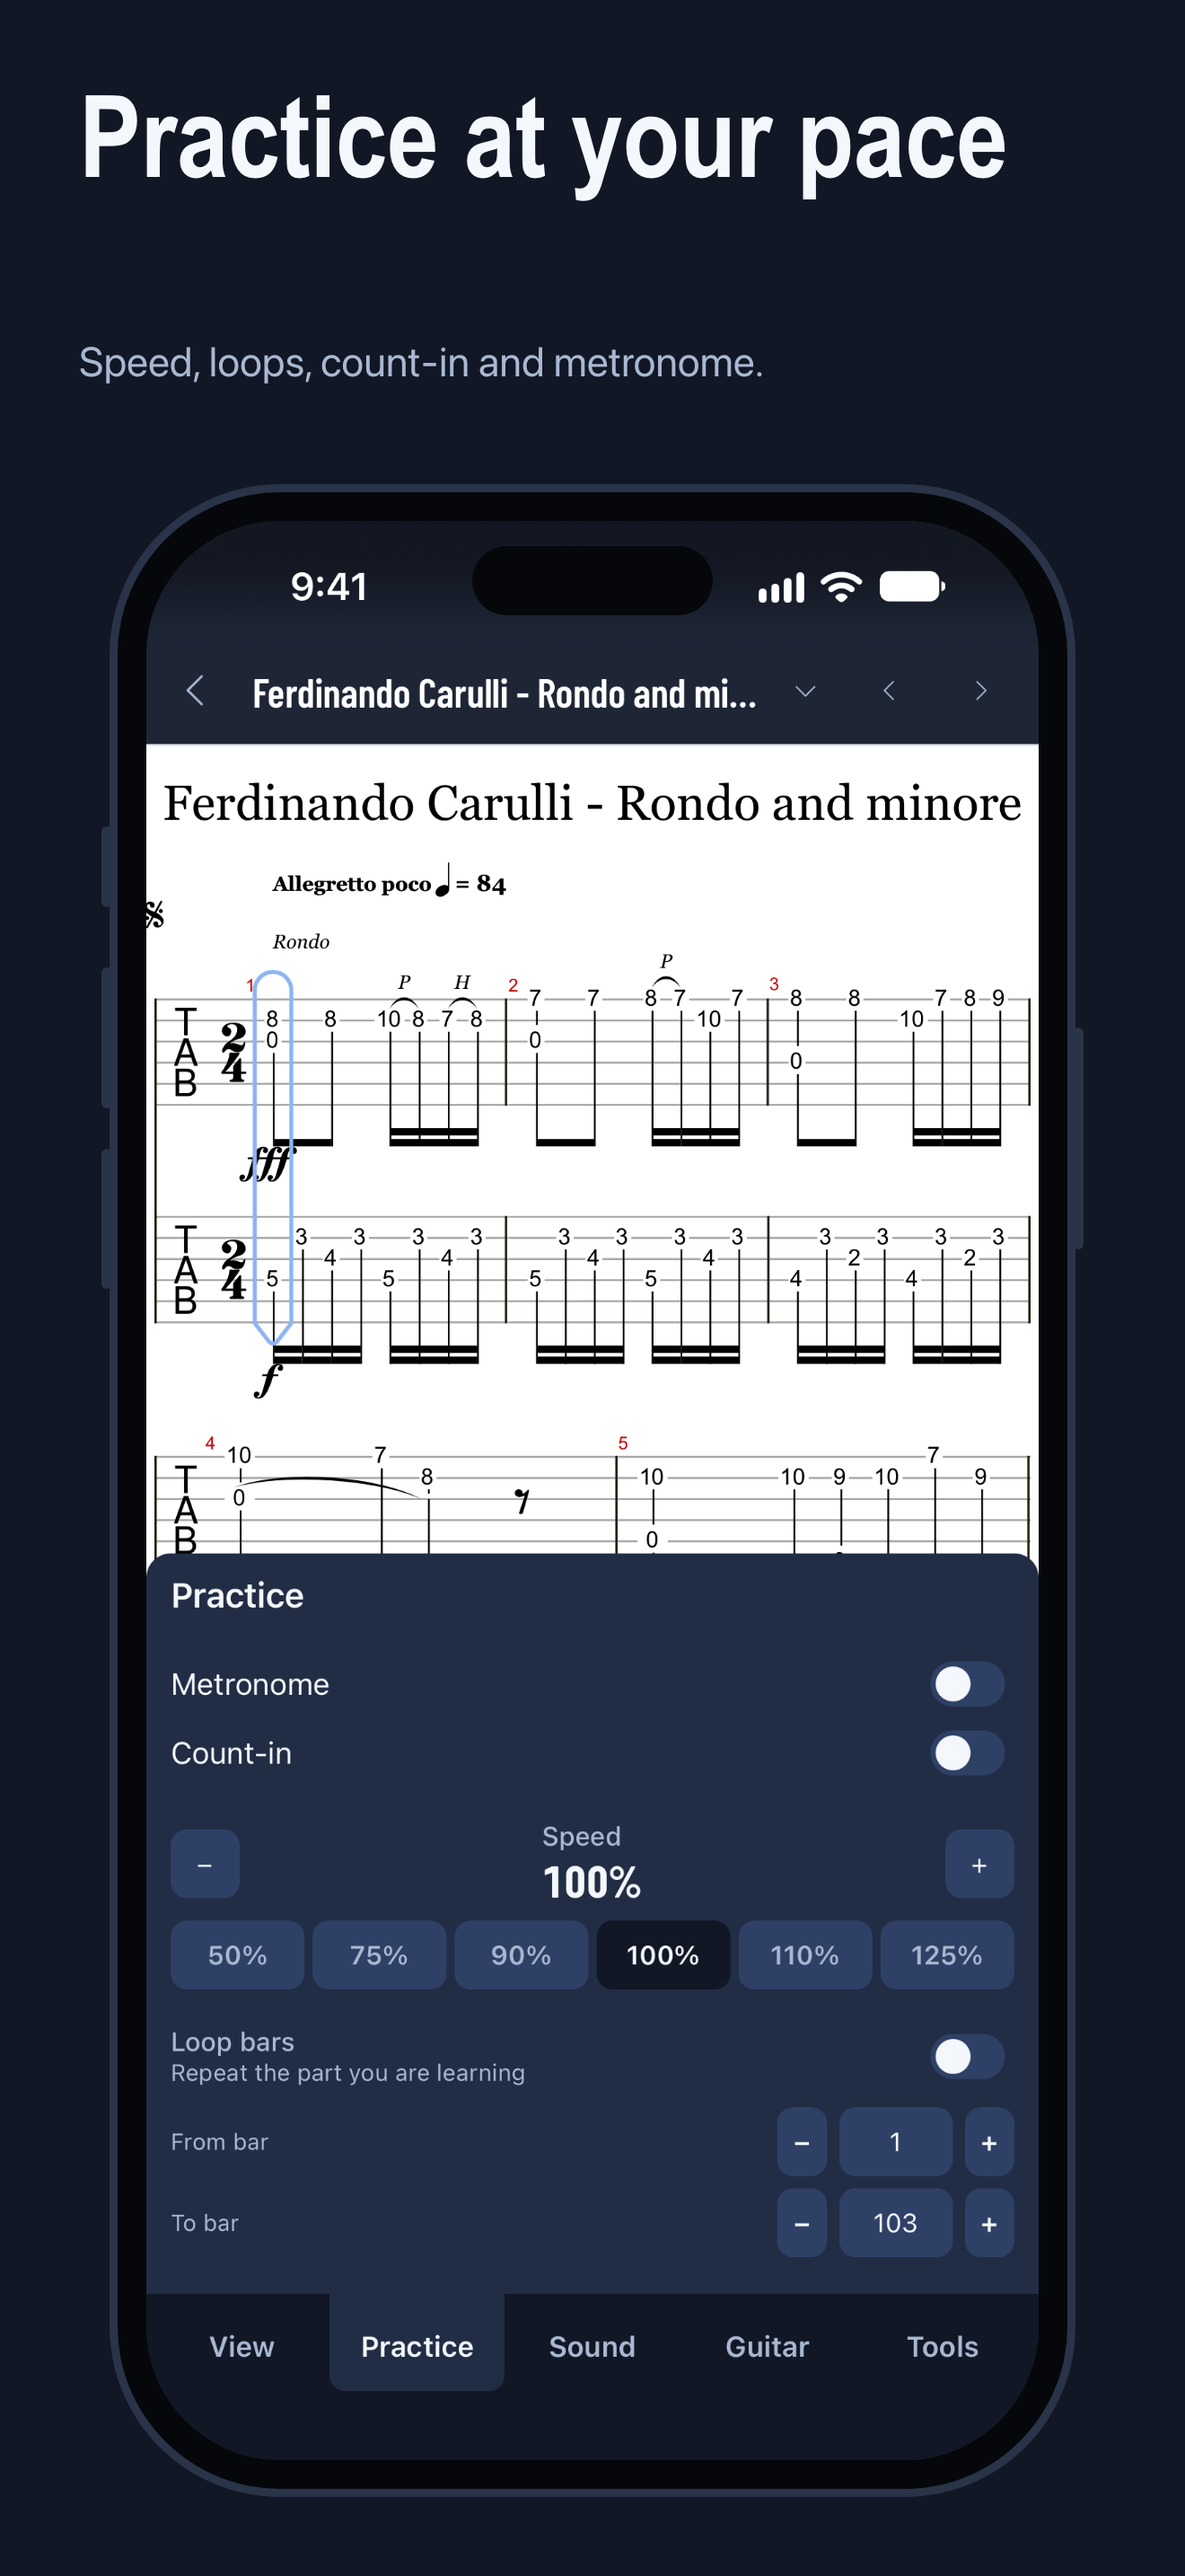
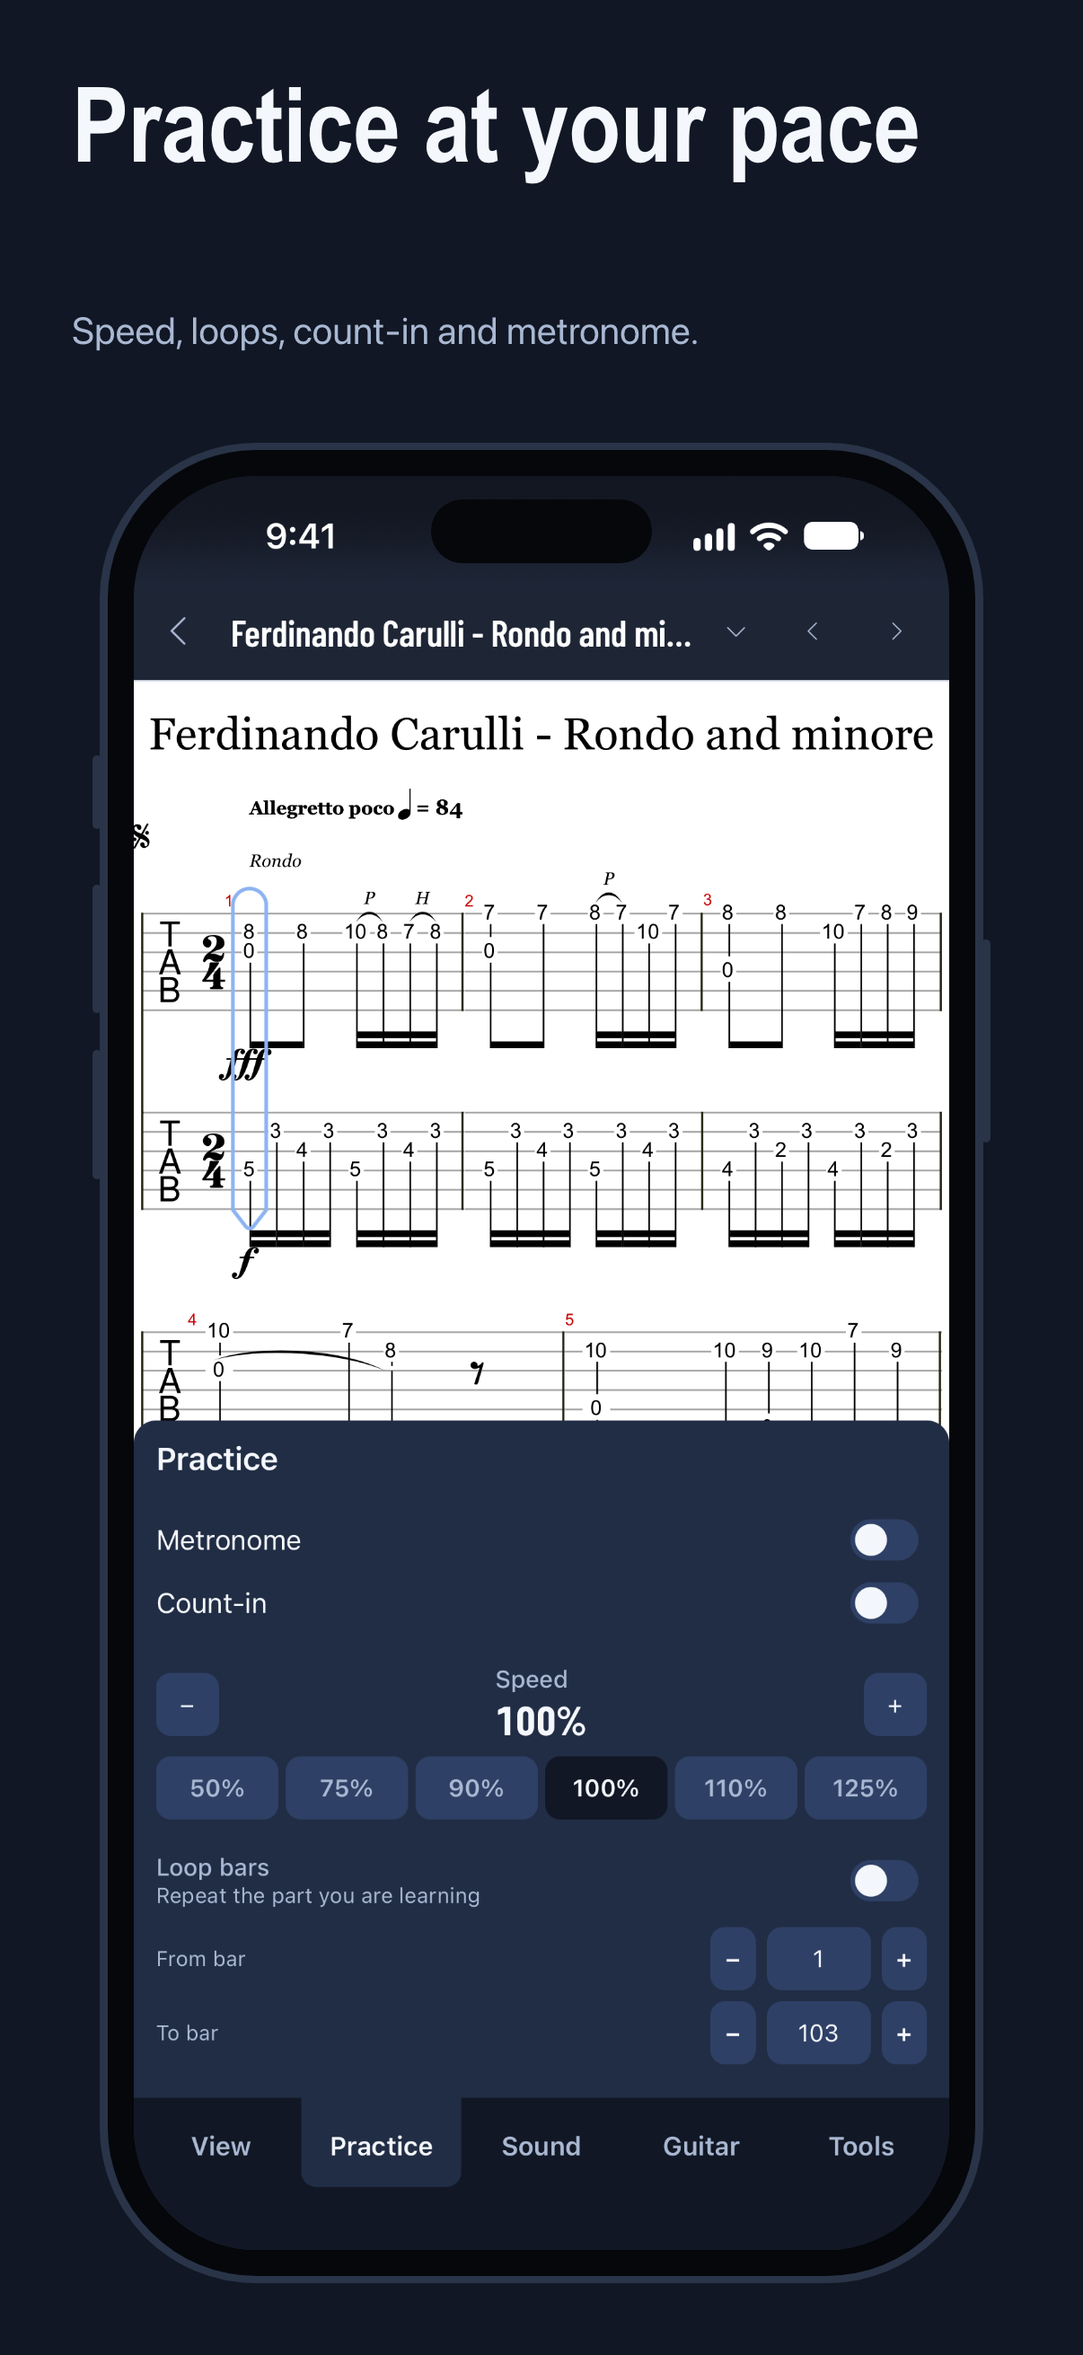
ci(appstore): sign iOS with the distribution certificate and an App Store profile

diff --git a/build/tauri/plugins/apple-nav/ios/Sources/AppleNavPlugin.swift b/build/tauri/plugins/apple-nav/ios/Sources/AppleNavPlugin.swift
@@ -363,12 +363,22 @@ class AppleNavPlugin: Plugin, UITabBarDelegate, UISearchBarDelegate {
 
     // The system's choice of bar edge: 0 none (horizontal bar), 1 leading, 2 trailing. iOS 27.1 and later.
     private func systemVerticalEdge(_ window: UIWindow) -> Int {
+        let traits = window.traitCollection
+        if traits.responds(to: NSSelectorFromString("verticalBarEdge")),
+           let raw = traits.value(forKey: "verticalBarEdge") as? Int,
+           raw == 1 || raw == 2 {
+            return raw
+        }
         if #available(iOS 27.1, *) {
-            switch window.traitCollection.verticalBarEdge {
+            switch traits.verticalBarEdge {
             case .leading: return 1
             case .trailing: return 2
-            default: return 0
+            default: break
             }
+        }
+        // The Duo's outer display (external screen, 466x678pt) always has its vertical rail on the right
+        if (window.bounds.width == 466 && window.bounds.height == 678) || window.safeAreaInsets.right >= 70 {
+            return 2
         }
         return 0
     }
@@ -376,10 +386,11 @@ class AppleNavPlugin: Plugin, UITabBarDelegate, UISearchBarDelegate {
     // Picks the bar for the current pose and places everything; cheap to call often
     func relayout() {
         guard let bar = bar, let window = bar.superview as? UIWindow else { return }
-        // The side rail only where the system wants one AND the window is landscape; in portrait (the Duo's inner or outer
-        // display held upright) the horizontal bar is used, as on any iPhone
+        // The side rail where the system wants one: on the Duo's outer display (external screen), and in landscape
+        // on the inner display. In portrait on the inner display (the Duo held upright as a tablet), the horizontal bar is used.
         let landscape = window.bounds.width > window.bounds.height
-        let edge = landscape ? systemVerticalEdge(window) : 0
+        let isExternal = window.bounds.width <= 500
+        let edge = (landscape || isExternal) ? systemVerticalEdge(window) : 0
         let vertical = edge != 0
         if edge != verticalEdge {
             verticalEdge = edge

diff --git a/src/design.css b/src/design.css
@@ -5162,15 +5162,20 @@ body.phone-reader #screenRow { display: none !important; }
 body.native-tabbar .library-bottom-nav,
 body.native-rail .library-bottom-nav { display: none !important; }
 /* Wider than a phone (the iPhone Duo's strip layouts): the native rail replaces the web rail, so the page keeps no room for it */
-body.native-tabbar:not(.native-rail) { --rail-w: 0px; }
+body.native-tabbar,
+body.native-rail { --rail-w: 0px; }
+/* On iOS (iPhone Duo), the native rail sits in the side safe area reported by the plugin */
+html.tauri-ios body.native-tabbar.library-view-active #libraryPage,
+html.tauri-ios body.native-rail.library-view-active #libraryPage,
 body.native-tabbar:not(.native-rail).library-view-active #libraryPage {
   padding-left: max(env(safe-area-inset-left, 0px), var(--native-rail-left, 0px));
   padding-right: max(env(safe-area-inset-right, 0px), var(--native-rail-right, 0px));
 }
-body.native-rail.library-view-active #libraryPage {
+/* On macOS, the native rail sits on the left */
+html.tauri-macos body.native-rail.library-view-active #libraryPage {
   padding-left: var(--native-rail-w, 88px) !important;
 }
-body.native-rail.library-view-active #topBar {
+html.tauri-macos body.native-rail.library-view-active #topBar {
   padding-left: var(--native-rail-w, 88px) !important;
 }
 /* The horizontal bar overlays the page at every width, so pages reserve its height; the side rail is already a safe-area inset */

diff --git a/support/tools/store_screenshots.py b/support/tools/store_screenshots.py
@@ -112,11 +112,11 @@ STORES = {
     },
     "appstore-ios": {
         "device": "iphone",
-        # iPhone 6.9" (16 Pro Max) logical width; height matched to visible frame so bottom docks aren't cropped.
-        "viewport": {"width": 440, "height": 840},
+        # iPhone 6.3" (16 Pro / 18 Pro) logical width: 402 x 874 pt @ 3x = 1206 x 2622 px (supported App Store size)
+        "viewport": {"width": 402, "height": 874},
         "scale": 3,
         "user_agent": "Mozilla/5.0 (iPhone; CPU iPhone OS 18_0 like Mac OS X) AppleWebKit/605.1.15 (KHTML, like Gecko) Version/18.0 Mobile/15E148 Safari/604.1",
-        "final": (1320, 2868),
+        "final": (1206, 2622),
         # What the native shell does that a plain page lacks: main.js adds `tauri-ios` when window.__TAURI__ exists.
         "root_classes": ["tauri-ios"],
         # iOS is always a full-screen app, so the Fullscreen button must not appear anywhere.

diff --git a/support/tools/simulator_screenshots.py b/support/tools/simulator_screenshots.py
@@ -47,7 +47,7 @@ FIXTURE_PORT = 8765  # fixtures and album sleeves, served with CORS (a tauri:// 
 SIM_APP = TAURI / "src-tauri" / "gen" / "apple" / "build" / "arm64-sim" / "MajesticTab.app"
 
 DEVICES = {
-    "iphone": dict(kind="sim", model="iPhone 18 Pro Max", channel="appstore-ios", out="appstore-ios", final=(1320, 2868), bezel="iphone"),
+    "iphone": dict(kind="sim", model="iPhone 18 Pro", channel="appstore-ios", out="appstore-ios", final=(1206, 2622), bezel="iphone"),
     "ipad": dict(kind="sim", model="iPad Pro 13-inch (M5)", channel="appstore-ios", out="appstore-ipad", final=None, bezel="ipad"),
     "duo": dict(kind="sim", model="iPhone Duo", channel="appstore-ios", out="appstore-duo", final=None, bezel="foldable"),
     "mac": dict(kind="mac", channel="appstore-mac", out="appstore-mac", final=(2880, 1800), bezel="laptop"),

diff --git a/build/tauri/plugins/apple-nav/build.rs b/build/tauri/plugins/apple-nav/build.rs
@@ -3,6 +3,7 @@ use std::path::PathBuf;
 use std::process::Command;
 
 fn main() {
+    println!("cargo:rerun-if-changed=ios/Sources/AppleNavPlugin.swift");
     tauri_plugin::Builder::new(&["configure", "select", "visibility", "appearance", "search"])
         .ios_path("ios")
         .build();
